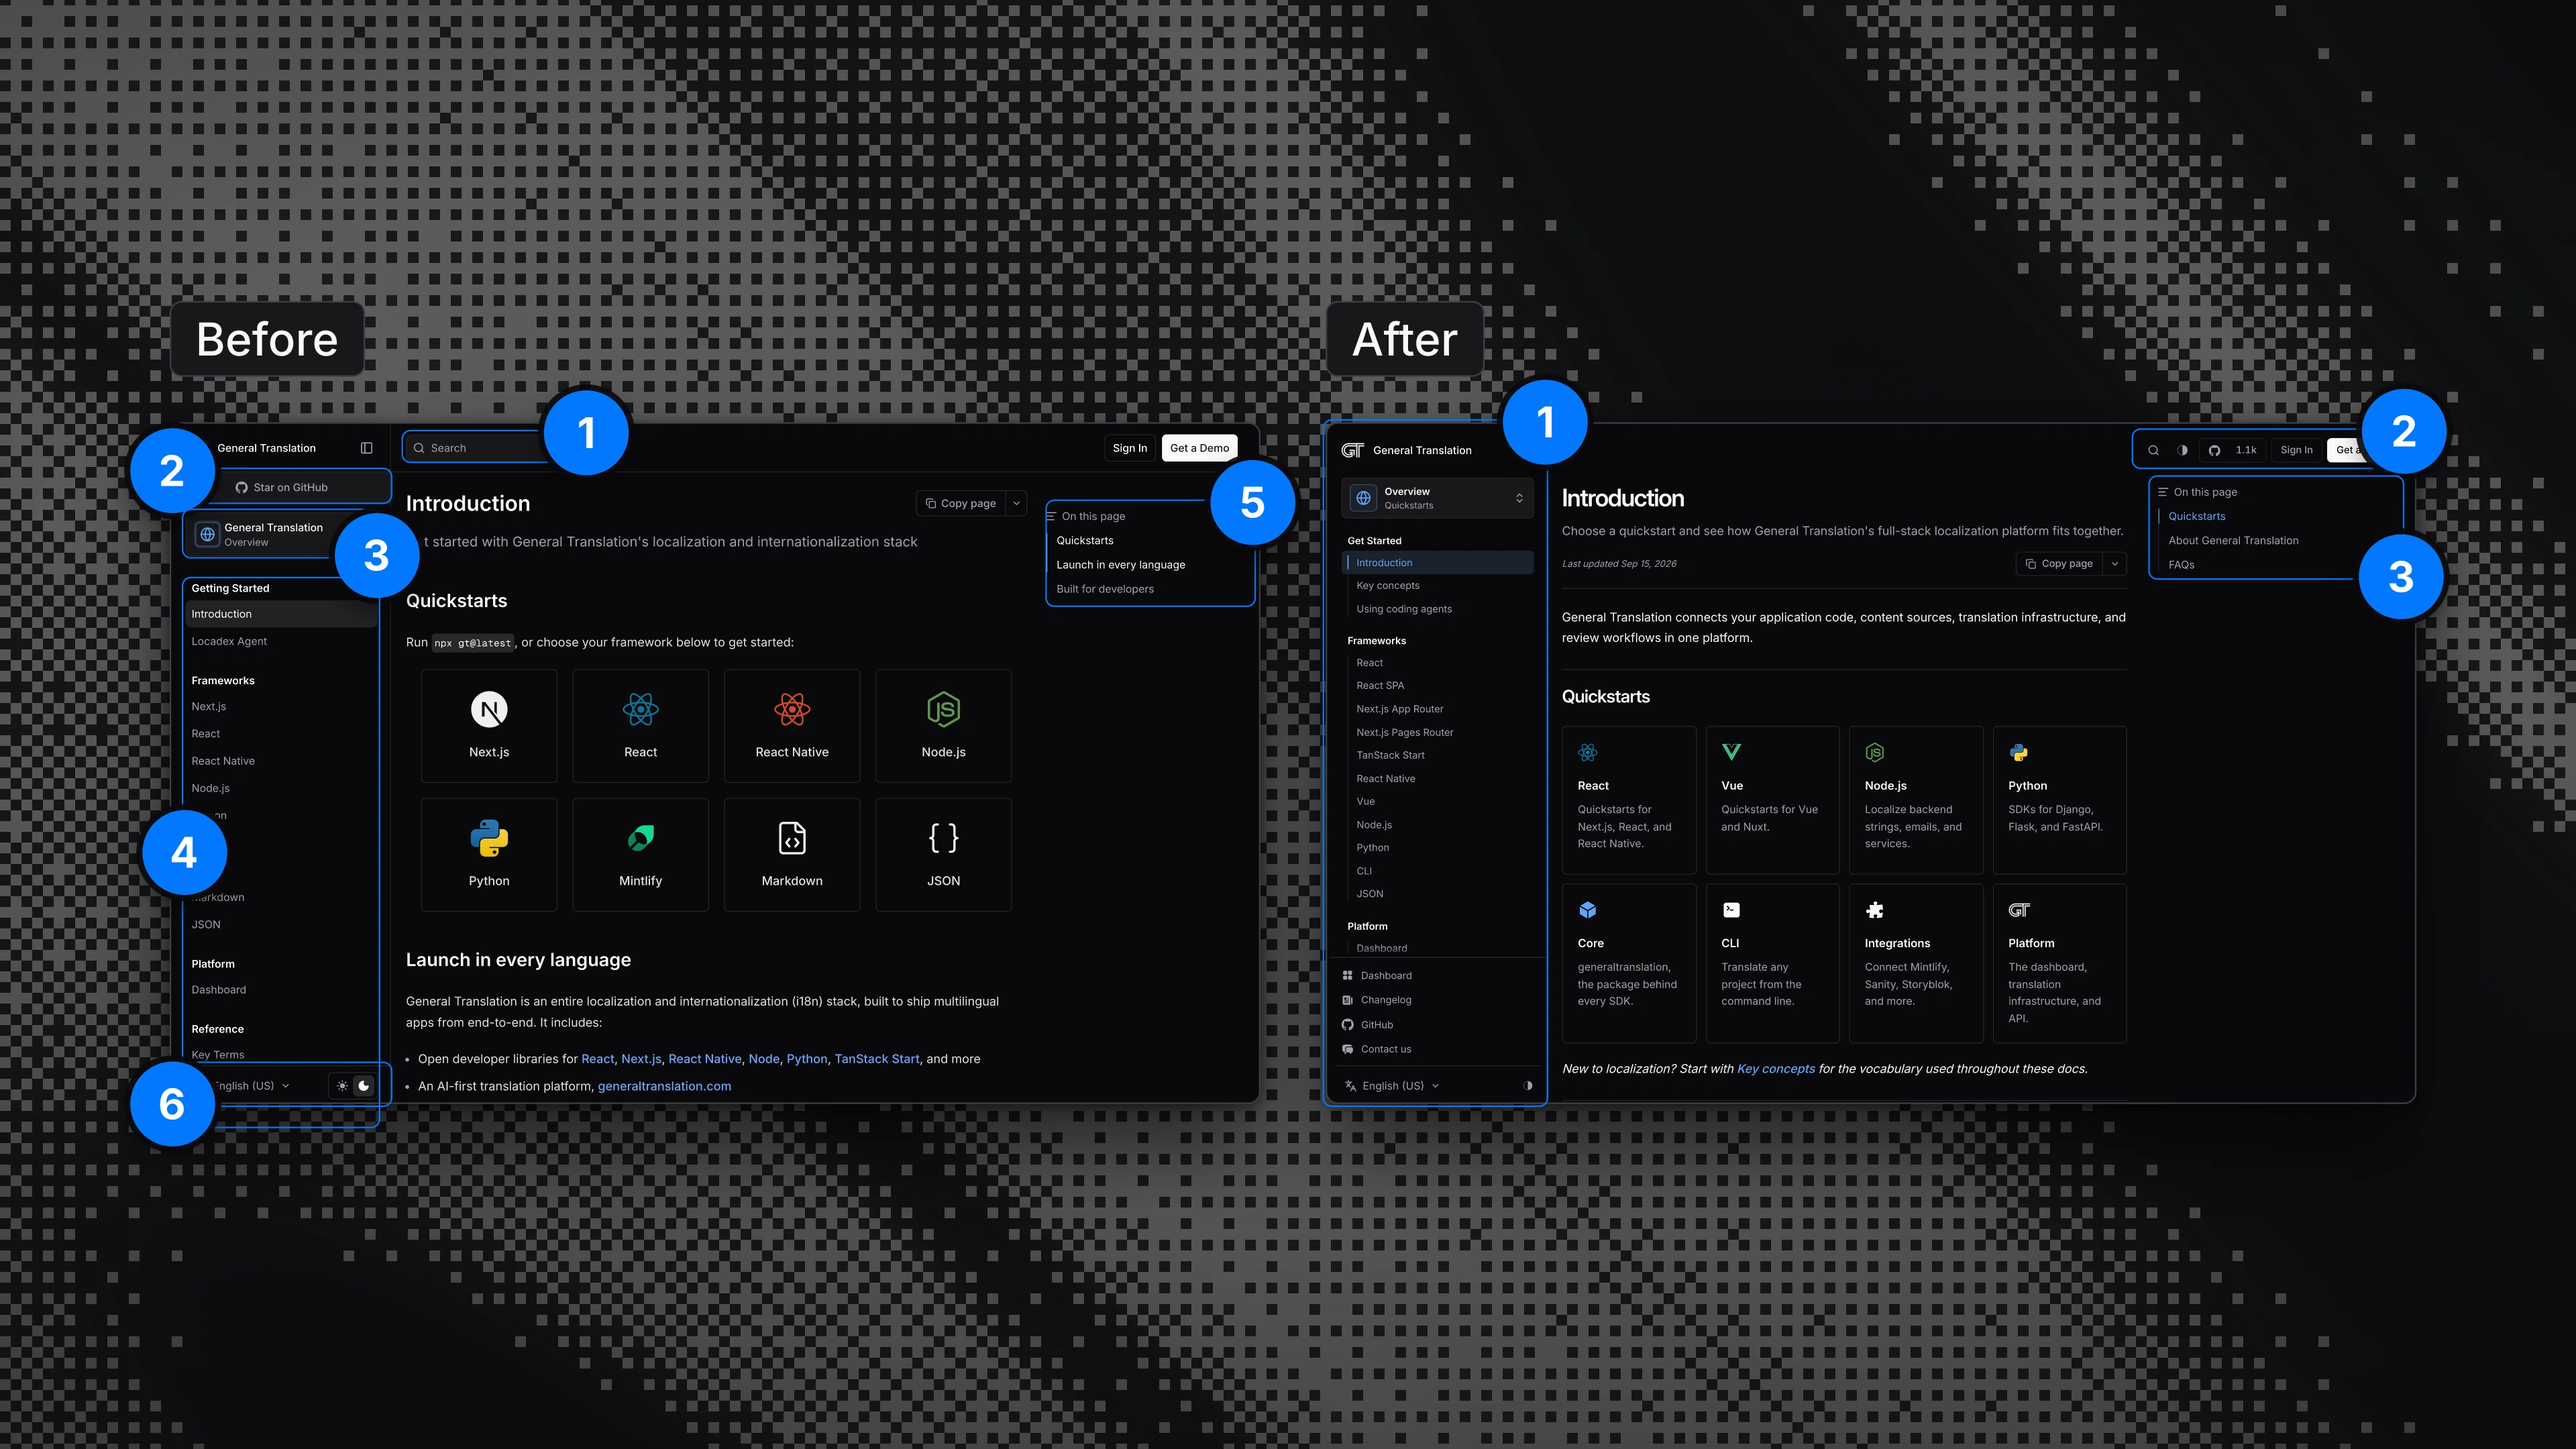
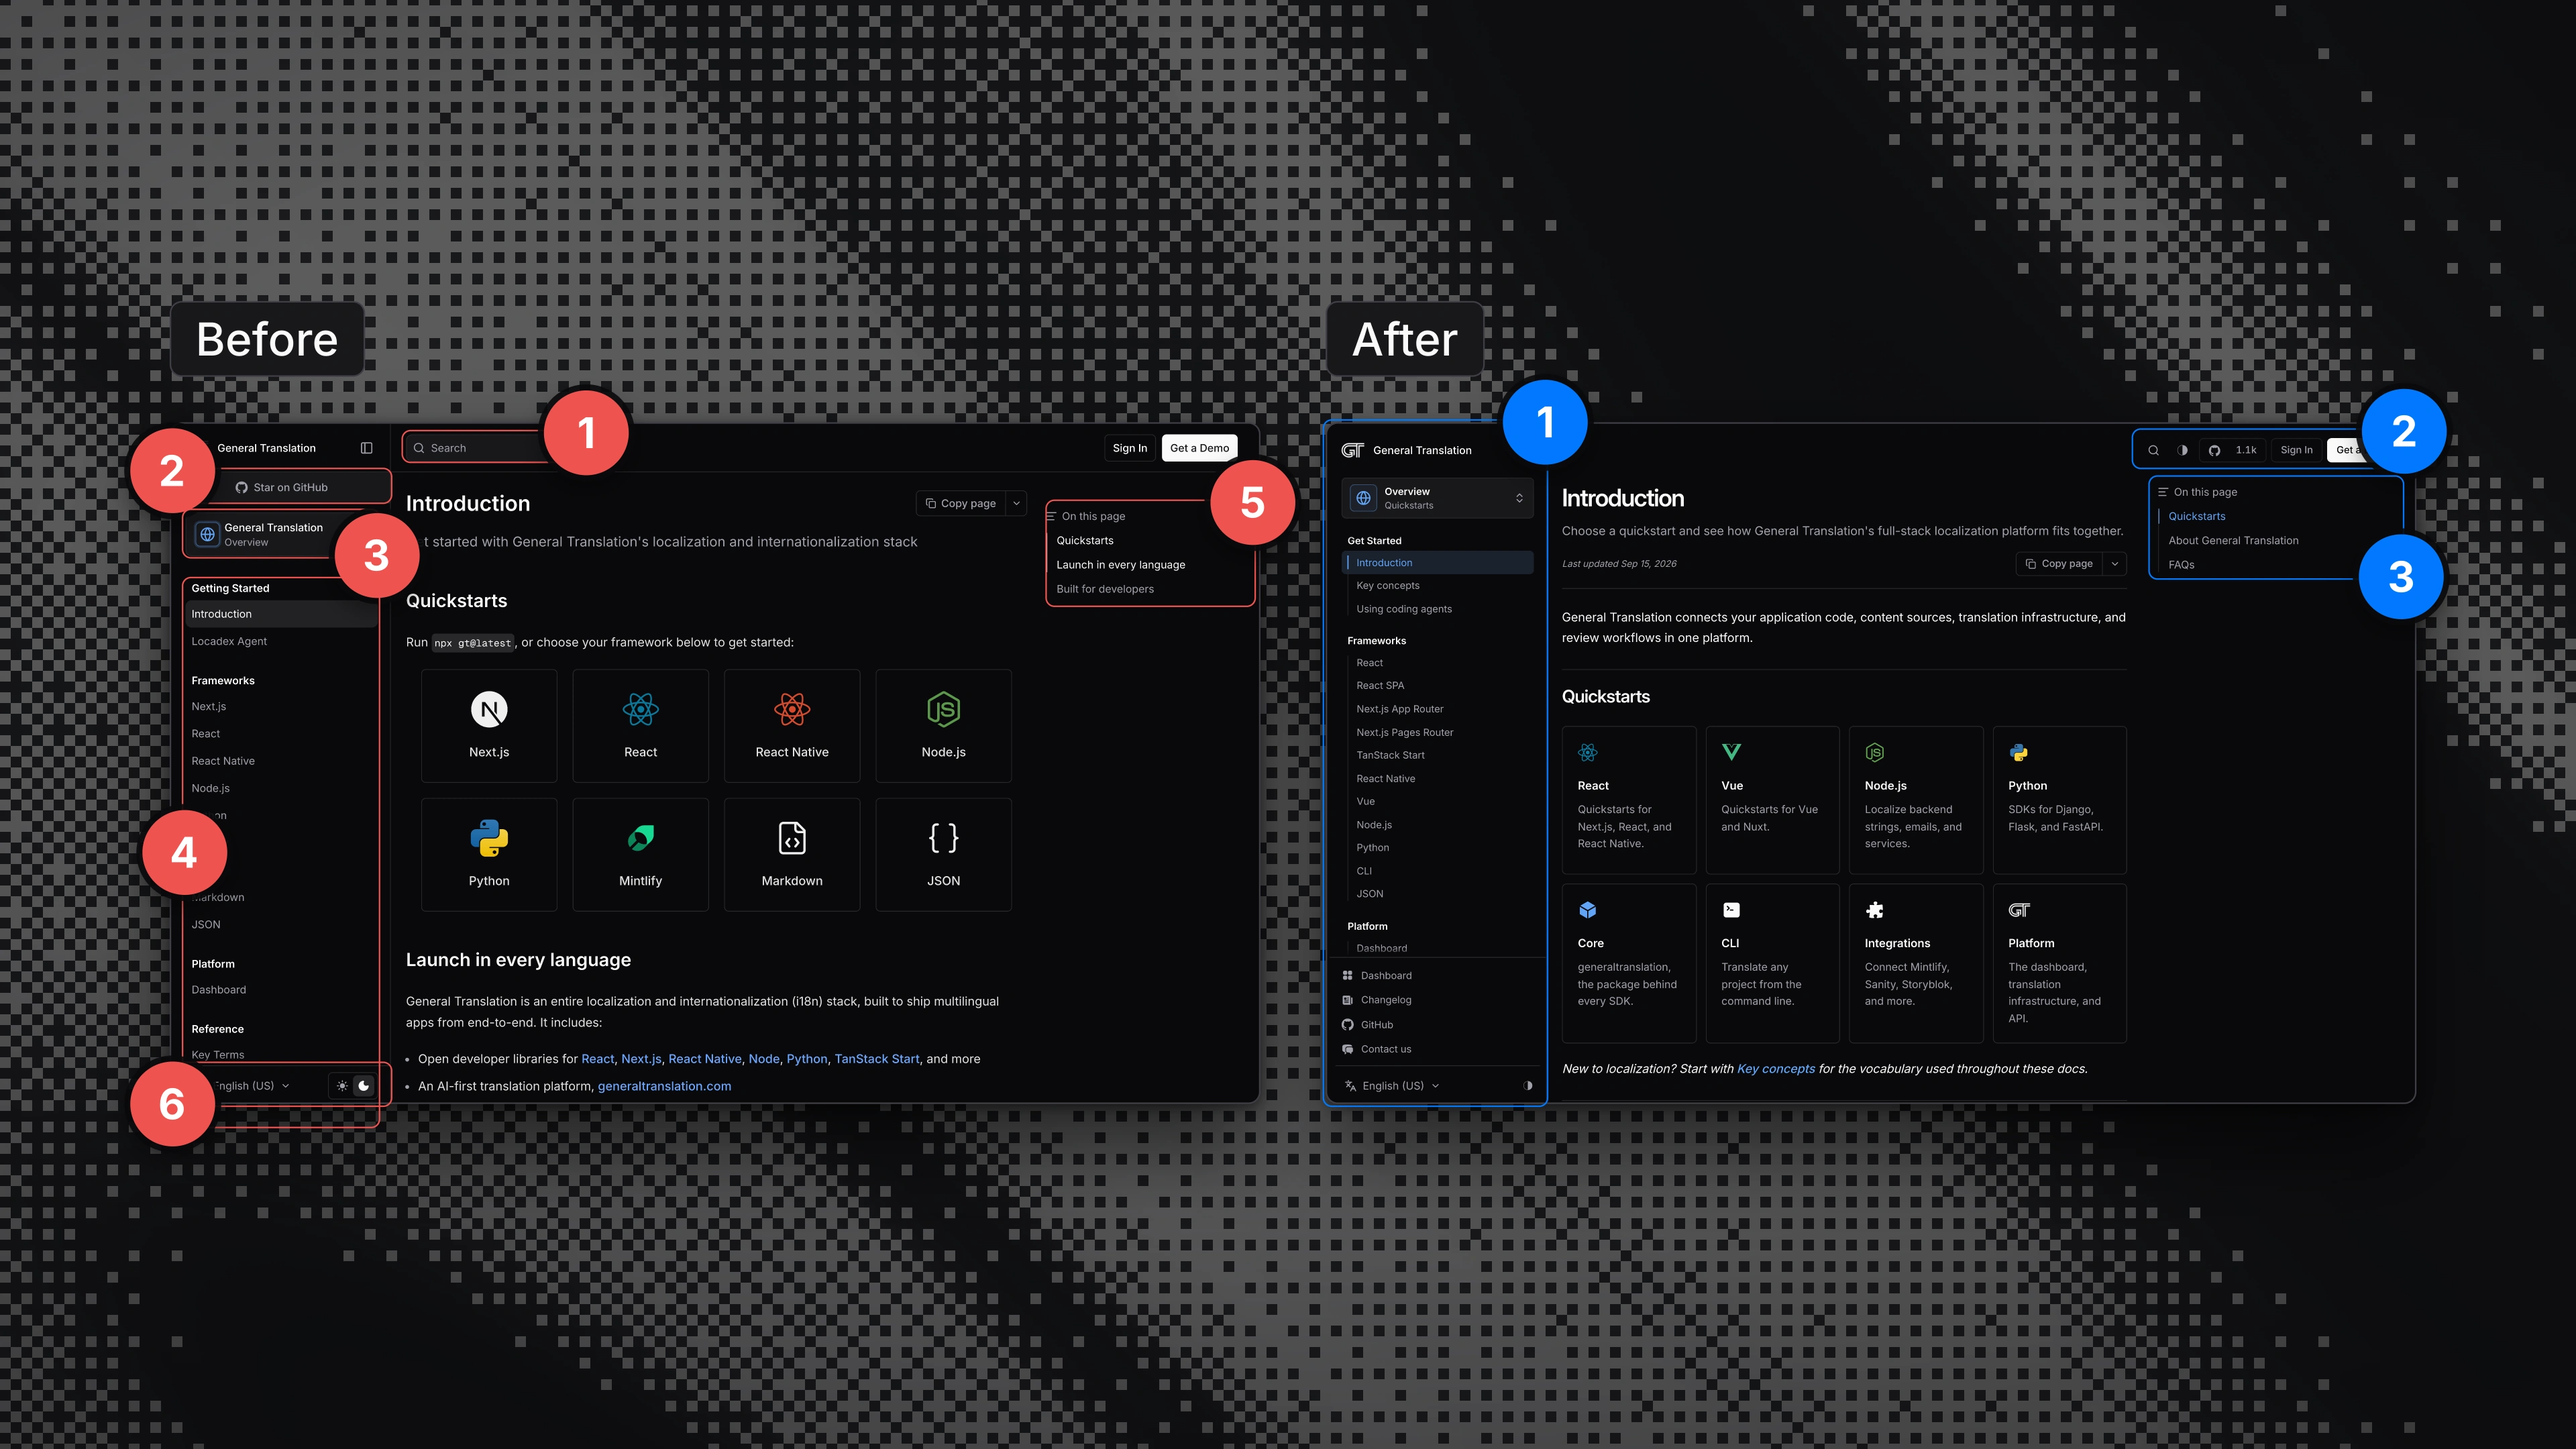
Census in red and blue; anatomy leaders on their boxes with separate trunks

diff --git a/graphics/build/gen-visuals.js b/graphics/build/gen-visuals.js
@@ -181,27 +181,30 @@ add('B5-header-strip', 'B', 'Header strip', 'silk2', 'Where the old top band’s
   return h;
 });
 // =============== AREA C ===============
-add('C1-nav-census', 'C', 'Navigation census', 'silk3', 'Every navigation or control surface numbered on both pages.', () => {
+add('C1-nav-census', 'C', 'Navigation census', 'silk3', 'Every navigation or control surface numbered on both pages: the old page’s six in red, the new page’s three in blue.', () => {
   let h = ''; const s = 0.5, Y = 216;
   h += badge(44, 136, 'Before'); h += badge(807, 136, 'After');
   h += crop('oldIntro', { x: 0, y: 0, w: 1440, h: 900 }, { x: 44, y: Y, s }); h += crop('newIntro', { x: 0, y: 0, w: 1440, h: 900 }, { x: 807, y: Y, s });
   const oL = org(44, Y, { x: 0, y: 0 }), oR = org(807, Y, { x: 0, y: 0 });
   // each marker sits on its own corner of the surface (l/r × t/m/b) so the 56px dots never touch
-  const mark = (ox, r, a, n) => dot(ox + (a[0] === 'l' ? r.x : r.x + r.w) * s, Y + (a[1] === 't' ? r.y : a[1] === 'b' ? r.y + r.h : r.y + r.h / 2) * s, n, 'blue', 56);
-  [[O.search, 1, 'rt'], [O.star, 2, 'lt'], [O.switcher, 3, 'rb'], [{ x: 19, y: 207, w: 254, h: 720 }, 4, 'lm'], [O.toc, 5, 'rt'], [O.prefs, 6, 'lb']].forEach(([r, n, a]) => { h += hl(oL, s, r, { pad: 2, style: 'border-width:1.5px;box-shadow:none' }); h += mark(44, r, a, n); });
-  [[N.sidebar, 1, 'rt'], [N.header, 2, 'rt'], [N.toc, 3, 'rb']].forEach(([r, n, a]) => { h += hl(oR, s, r, { pad: 2, style: 'border-width:1.5px;box-shadow:none' }); h += mark(807, r, a, n); });
+  // the old page's surfaces in red, the new page's in blue, as everywhere in the set
+  const mark = (ox, r, a, n, color) => dot(ox + (a[0] === 'l' ? r.x : r.x + r.w) * s, Y + (a[1] === 't' ? r.y : a[1] === 'b' ? r.y + r.h : r.y + r.h / 2) * s, n, color, 56);
+  [[O.search, 1, 'rt'], [O.star, 2, 'lt'], [O.switcher, 3, 'rb'], [{ x: 19, y: 207, w: 254, h: 720 }, 4, 'lm'], [O.toc, 5, 'rt'], [O.prefs, 6, 'lb']].forEach(([r, n, a]) => { h += hl(oL, s, r, { color: 'red', pad: 2, style: 'border-width:1.5px;box-shadow:none' }); h += mark(44, r, a, n, 'red'); });
+  [[N.sidebar, 1, 'rt'], [N.header, 2, 'rt'], [N.toc, 3, 'rb']].forEach(([r, n, a]) => { h += hl(oR, s, r, { pad: 2, style: 'border-width:1.5px;box-shadow:none' }); h += mark(807, r, a, n, 'blue'); });
   return h;
 });
 
 add('C2-accordion-anatomy', 'C', 'Accordion anatomy', 'silk4', 'The new sidebar enlarged with a label for each part, and the two levels that live beyond it: the sections in the open switcher, the headings in the contents rail.', () => {
   let h = ''; const s = 0.9, X = 120, Y = 45; const o = org(X, Y, { x: 0, y: 0 });
   h += crop('newIntro', N.sidebar, { x: X, y: Y, s });
-  const calls = [[N.switcher, 'Section switcher', 'squares-2x2'], [N.itemIntro, 'Active item', 'cursor-arrow-rays'], [N.groupFw, 'Group heading', 'bars-3'], [N.footerLinks, 'Footer links', 'link'], [N.prefs, 'Preferences', 'adjustments-horizontal']];
-  calls.forEach(([r, k, ic], i) => { const yy = Y + (r.y + r.h / 2) * s; const ty = 150 + i * 150; h += hl(o, s, r, { pad: 3, style: 'box-shadow:none' }); h += elbow(X + (r.x + r.w) * s + 8, yy, 476, ty + 23, { mx: 420, color: 'rgba(96,165,250,.7)' }); h += iconLabel(490, ty, ic, k); });
+  // each leader leaves its box at the box's edge; the trunks sit at two x positions so no two vertical runs
+  // share a line (the active item's and the group heading's would otherwise overlap between y 303 and 323)
+  const calls = [[N.switcher, 'Section switcher', 'squares-2x2', 430], [N.itemIntro, 'Active item', 'cursor-arrow-rays', 430], [N.groupFw, 'Group heading', 'bars-3', 400], [N.footerLinks, 'Footer links', 'link', 430], [N.prefs, 'Preferences', 'adjustments-horizontal', 400]];
+  calls.forEach(([r, k, ic, mx], i) => { const yy = Y + (r.y + r.h / 2) * s; const ty = 150 + i * 150; h += hl(o, s, r, { pad: 3, style: 'box-shadow:none' }); h += elbow(X + (r.x + r.w + 3) * s + 1, yy, 476, ty + 23, { mx, color: 'rgba(96,165,250,.7)' }); h += iconLabel(490, ty, ic, k); });
   // beyond the sidebar: the sections the switcher opens onto, and the headings the contents rail lists
   const sec = { x: 19, y: 71, w: 255, h: 480 }, sS = 0.62, SX = 1040, SY = 90;
   h += tag('Sections', 'squares-2x2', SX, SY - 62); h += crop('dropdown', sec, { x: SX, y: SY, s: sS });
-  h += elbow(860, 173, SX - 8, SY + 40, { mx: 960, color: 'rgba(96,165,250,.7)' });
+  h += elbow(840, 173, SX - 8, SY + 40, { mx: 960, color: 'rgba(96,165,250,.7)' });
   const tocS = 0.9, TY = SY + PH(sec, sS) + 110;
   h += tag('Headings', 'list-bullet', SX, TY - 62); h += crop('newIntro', N.toc, { x: SX, y: TY, s: tocS });
   return h;
